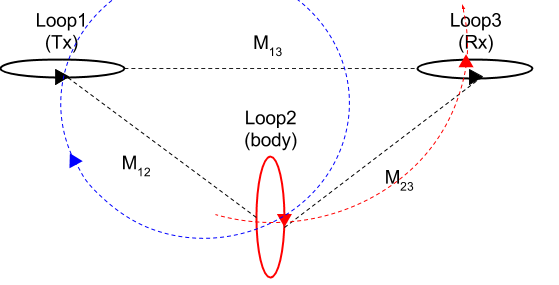
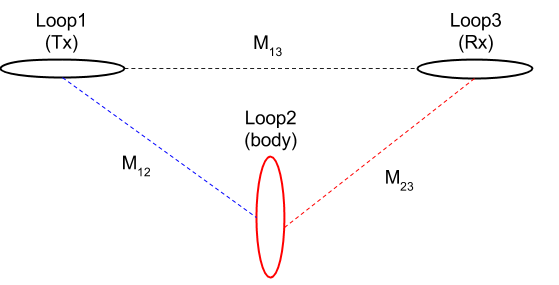
Finish draft of Derivation of Response Function

diff --git a/content/maxwell3_fdem/circuitmodel_for_eminduction/derive_response_function.rst b/content/maxwell3_fdem/circuitmodel_for_eminduction/derive_response_function.rst
@@ -1,0 +1,147 @@
+.. _derive_response_function:
+
+Derivation of Response Function
+===============================
+
+Consider a simple equivalent circuit as shown in :numref:`Concepts_3loops_only`.
+
+.. figure:: ./images/Concepts_3loops_only_M.png
+   :align: center
+   :scale: 70%
+   :name: Concepts_3loops_only
+
+   Conceptual diagram for 3-loops system.
+
+Let us suppose that alternating current, :math:`I_1 e^{\imath \omega t}` is made to flow in the Tx (Loop 1). This current generates an alternating magnetic field in the surrounding environment, which in turn induces an EMF both in the body (Loop 2) and the Rx (Loop 3). These EMFs are governed by Faraday's Law
+
+.. math::
+  \mathcal{E}_{j} = - M_{ij} \frac{d I_i}{dt},
+
+where :math:`\mathcal{E}_j` is the EMF induced in one circuit by a current :math:`I_i` flowing in another if :math:`M_{ij}` is their mutual inductance.
+The EMF induced in the Rx is therefore
+
+.. math::
+
+  \mathcal{E}^p_3 = -\imath \omega M_{13} I_1 e^{\imath\omega t}
+
+and the EMF induced in the body is
+
+.. math::
+  \mathcal{E}_2 = -\imath \omega M_{12}I_1 e^{\imath\omega t}
+
+We must add :math:`\mathcal{E}_2^{\dagger}`, the sum of the voltage drop across the resistance of the circuit and the back EMF generated by the self inductance when a current :math:`I_2 e^{\imath\omega t}`  flows around the body. For this we consider RL circuit as shown in :numref:`RLcircuit`.
+
+.. figure:: ./images/RLcircuit.png
+   :align: right
+   :scale: 60%
+   :name: RLcircuit
+
+   Conceptual diagram of RL circuit.
+
+The electrical impedance of the RL circuit can be written as
+
+.. math::
+    Z(\omega) = R + \imath \omega L,
+
+where :math:`R` and :math:`L` indicate resistance and inductance, respecitvely.
+Using Ohm's law we obtain
+
+.. math::
+    V(\omega) = \mathcal{E}_2 = I_2(\omega) Z(\omega).
+
+To find the current :math:`I_2`, we observe that around any closed circuit the total EMF must vanish i.e.
+
+.. math::
+  \mathcal{E}_2 + \mathcal{E}^{\dagger}_2 = 0
+
+and therefore
+
+.. math::
+  I_2 e^{\imath \omega t}
+  = - \frac{\imath \omega M_{12}}{R + \imath \omega L} I_1 e^{\imath \omega t} \\
+  =  - \frac{\imath \omega L/R}{ 1 + \imath \omega L/R} \frac{M_{12}I_1}{L} e^{\imath \omega t} \\
+
+This is the solution for the eddy current induced in the body (Loop 2). However, we are interested only in the secondary magnetic field which this current produces, and particularly in the EMF which the field induces in the Rx (Loop 3).
+
+.. math::
+  \mathcal{E}^s_3 = -\imath \omega M_{23} I_2 e^{\imath \omega t}
+
+In most cases the apparatus measures this anomalous voltage by comparing it with the EMF induced by the primary field in the absence of the circuit; that is, it measures :math:`\mathcal{E}_3^s / \mathcal{E}_3^p`. Thus the EM response of the buried loop, is given by
+
+.. math::
+  \frac{\mathcal{E}_3^s }{\mathcal{E}_3^p}
+  = \frac{-\imath \omega M_{23} I_2 e^{\imath \omega t}}{-\imath \omega M_{13} I_1 e^{\imath\omega t}}
+  = - \frac{M_{12}M_{23}}{M_{13}L} \Big[\frac{\imath \omega L/R}{ 1 + \imath \omega L/R} \Big] \\
+  = C Q (\alpha)
+
+The EM response is composed of two parts: coupling coefficent, C and reponse function, Q, whcih can be written as
+
+.. math::
+  C = - \frac{M_{12}M_{23}}{M_{13}L}
+
+and
+
+.. math::
+  Q = \frac{\imath \omega L/R}{ 1 + \imath \omega L/R}
+
+We can redefine this using time constant :math:`\tau = L/R`
+
+.. math::
+  Q = \frac{\imath\omega \tau}{1+\imath \omega \tau}
+
+or by using induction number :math:`\alpha = \omega \tau`
+
+.. math::
+  Q = \frac{\imath \alpha}{1+\imath\alpha}
+
+Consider complex response function, :math:`Q` as
+
+.. math::
+    Q = \frac{\imath \alpha}{1+\imath\alpha}
+    = \frac{\imath \alpha(1-\imath\alpha)}{1+\alpha^2}
+    = \frac{\alpha^2 + \imath \alpha}{1+\alpha^2}
+
+- for :math:`\alpha \ll 1\rightarrow` :math:`Q\simeq\imath\alpha` so :math:`I(\omega) \approx -\imath \alpha` (in the resitive limit)
+- for :math:`\alpha \gg 1\rightarrow` :math:`Q\simeq\imath\alpha` so :math:`I(\omega) \approx -1` (in the inductive limit)
+
+:numref:`CmplxResp` shows real and imaginary component of :math:`Q`.
+
+.. figure:: ./images/CmplxResp.png
+   :align: center
+   :scale: 80%
+   :name: CmplxResp
+
+   Complex response function.
+
+From similar derivation we could obtain
+
+.. math::
+  \frac{H_3^s }{H_3^p} =  C Q(\alpha),
+
+where :math:`H` stands for the magnetic field. Therefore, the equality:
+
+.. math::
+  \frac{\mathcal{E}_3^s }{\mathcal{E}_3^p} = \frac{H_3^s }{H_3^p}
+
+holds hence fields and voltages can be used interchangeably when measuring with a coil.
+
+
+.. \alpha: induction number
+.. \alpha = \omega \tau
+.. \tau: time constant (L/R)
+.. Diagram Re/Im;  plus names; quadrature, out-of-phase
+.. Diagram (?? Amp-phase)
+.. es/ep = Hs/Hp    so fields and voltages can be used interchangeably when measuring with a coil
+
+
+.. The phase of the current, :math:`\theta_I` can be written as
+
+.. .. math::
+..     \theta_I = \theta_V - \theta_Z = -\frac{\pi}{2} - tan^{-1}\Big(\frac{\omega L}{R}\Big),
+..     :label: PhaseI
+
+.. where :math:`\theta_z=\Re[z] / \Im[z]` and :math:`\Re[z]` and :math:`\Im[z]` are real and imaginary part of a complex value :math:`z`.
+
+.. Considering Faraday's law: :math:`V = -\imath\omega\Phi^p`, then recoginze factor of :math:`-\imath\omega`, which makes :math:`\frac{\pi}{2}` lag of phase in the induced current. And :math:`tan^{-1}(\frac{\omega L}{R})` lag of phase is induced by the Loop2.
+
+.. So the phase of the current vary with frequency. At low frequencies the information about the conductor is in the quadrature (imaginary part) portion, at high frequencies it is in out-of-phase (real part) portion.

diff --git a/content/maxwell3_fdem/circuitmodel_for_eminduction/index.rst b/content/maxwell3_fdem/circuitmodel_for_eminduction/index.rst
@@ -42,13 +42,20 @@ Either numerically, or through instrumentation, it is possible to remove the pri
   :label: l2
 
 where :math:`C` is coupling coefficient.
-In Eq. :eq:`l2` :math:`M_{ij}` is the mutual inductance between loops i and j, L is the self inductance of the target loop, Q is the inductive response function. :math:`\alpha = wL/R`  is a dimensionless induction number.
+In Eq. :eq:`l2`, :math:`M_{ij}` is the mutual inductance between loops :math:`i` and :math:`j`, :math:`L` is the self inductance of the target loop, :math:`Q` is the inductive response function. :math:`\alpha = \omega L/R`  is a dimensionless induction number.
 
-The Response Function is a complex quantity and the real and imaginary parts (or in-phase and quadrature phase) look like XXXX(Figure of Re/Im). The horizontal axis is the induction number.
+The Response Function is a complex quantity and the real and imaginary parts (or in-phase and quadrature phase) look like :numref:`CmplxResp`. The horizontal axis is the induction number.
 
-Eq. :eq:`l2` has two main components. C is determined by geometry. Q relates to the target body.
+.. figure:: ./images/CmplxResp.png
+   :align: center
+   :scale: 80%
+   :name: CmplxResp
 
-In the following pages we
+   Complex response function.
+
+Eq. :eq:`l2` has two main components. :math:`C` is determined by geometry. :math:`Q` relates to the target body.
+
+In the following pages we illustrate
 
 .. - Derive the expression for the response function
 .. - Explain self and mutual inductance
@@ -78,7 +85,7 @@ In the following pages we
 .. toctree::
     :maxdepth: 1
 
-    induced_currents_body
+    derive_response_function
     amplitudeandphase
     mutualinductance
 
